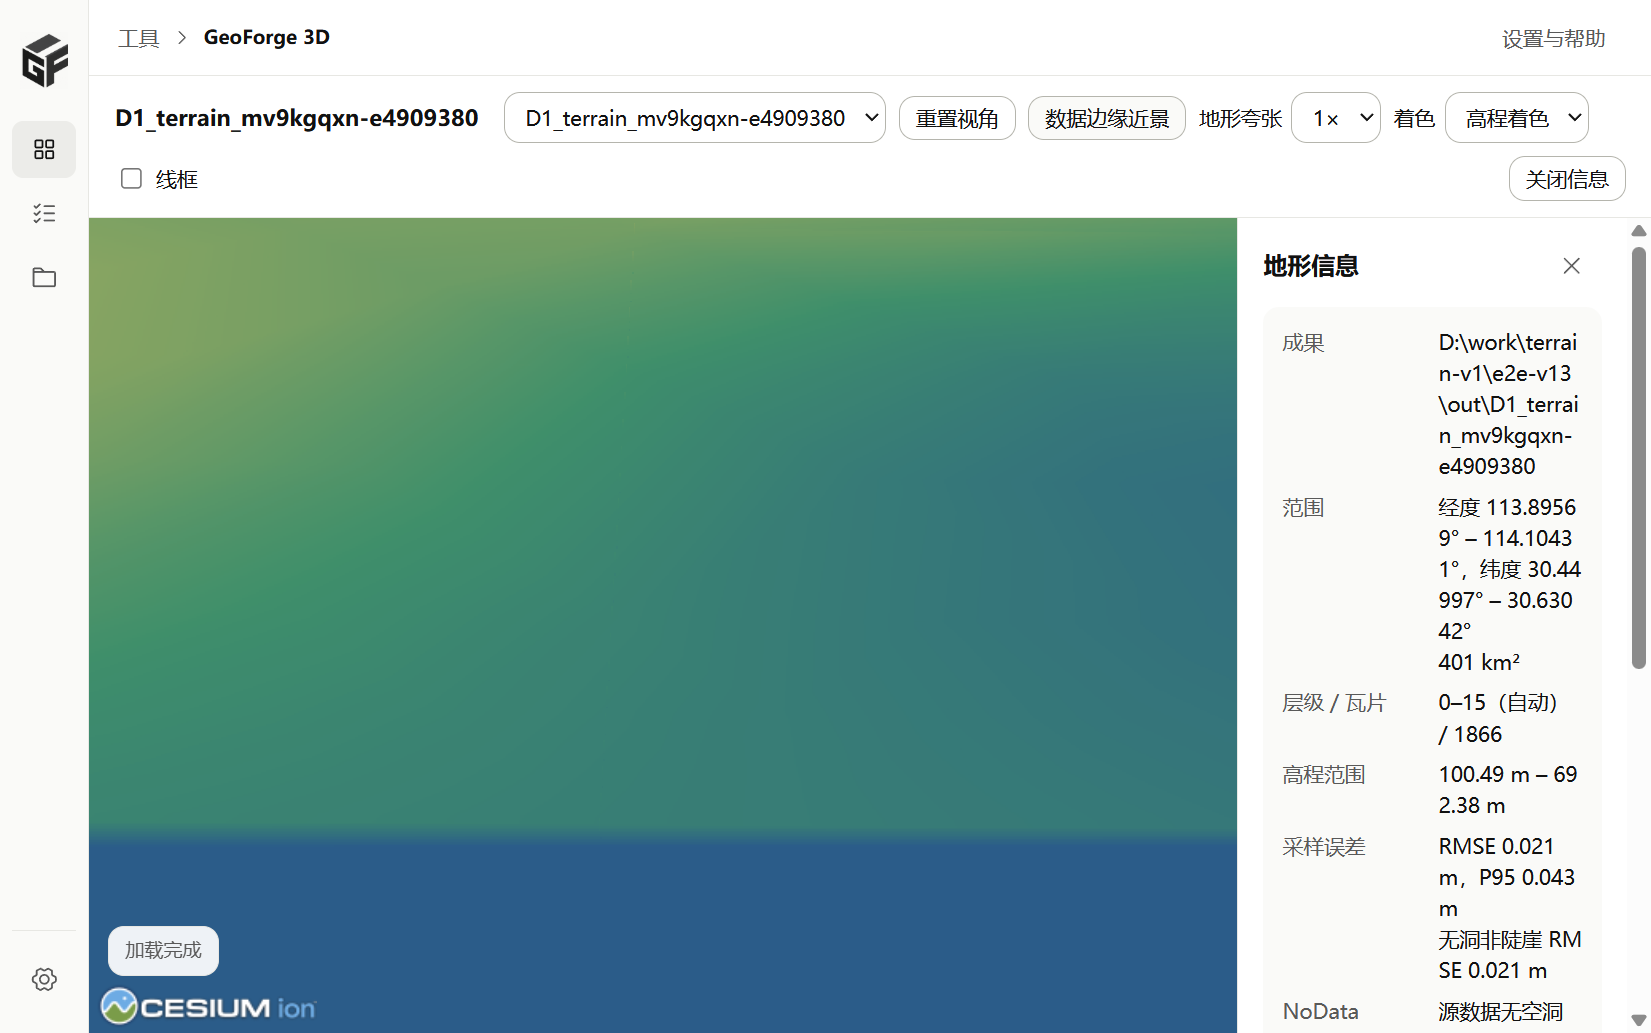
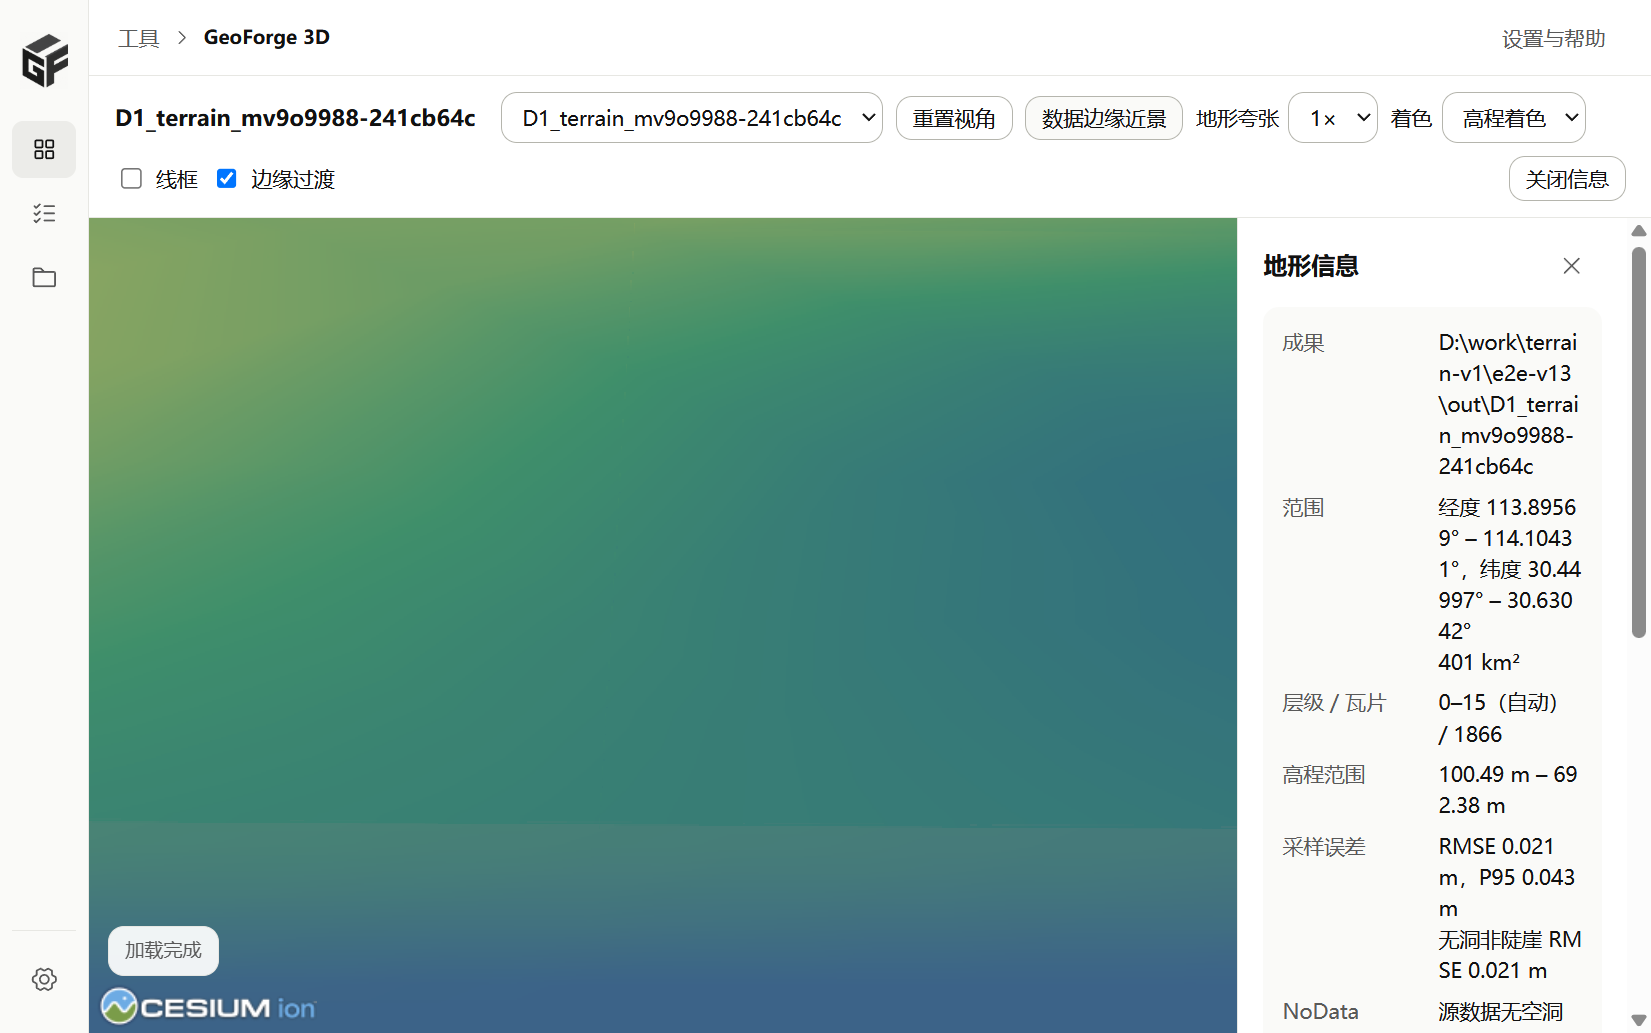
地形 V1.3：预览中的边缘过渡坡面、成果列表复制路径与重启保留测试

diff --git a/apps/desktop/public/terrain-preview.html b/apps/desktop/public/terrain-preview.html
@@ -28,13 +28,15 @@
   <div id="pickLine"></div>
   <div id="cesiumContainer"></div>
   <script type="module">
-    import { parseBounds, overviewRectangle, edgeView, realHeight, looksGzip, firstTileUrl } from './terrain-view.mjs';
+    import { parseBounds, overviewRectangle, edgeView, realHeight, looksGzip, firstTileUrl, rampColor, transitionWidthM, perimeterPoints, transitionMesh } from './terrain-view.mjs';
 
     const params = new URL(window.location.href).searchParams;
     const terrainUrl = params.get('terrain');
     const bounds = parseBounds(params.get('bounds'));
     const heights = { min: Number(params.get('hmin')), max: Number(params.get('hmax')) };
     let exaggeration = Number(params.get('ex')) || 1;
+    let shading = params.get('shading') || 'ramp';
+    let showTransition = params.get('transition') !== '0';
 
     function postParent(message) {
       if (window.parent && window.parent !== window) window.parent.postMessage(message, window.location.origin);
@@ -91,12 +93,64 @@
         globe.material = undefined;
       }
     }
+    // Display-only band outside the data: edge heights tapered to 0 m. It is
+    // a separate primitive; no terrain tile is changed.
+    let transition = null;
+    let transitionPrimitive = null;
+    async function prepareTransition(provider) {
+      const points = perimeterPoints(bounds, 96);
+      // Sample just inside the edge so the band starts on the data.
+      const inset = 1e-6;
+      const cartos = points.map((p) => Cesium.Cartographic.fromDegrees(
+        Math.min(Math.max(p.lon, bounds[0] + inset), bounds[2] - inset),
+        Math.min(Math.max(p.lat, bounds[1] + inset), bounds[3] - inset)));
+      const sampled = await Cesium.sampleTerrainMostDetailed(provider, cartos);
+      const widthM = transitionWidthM(bounds);
+      transition = { widthM, mesh: transitionMesh(points, sampled.map((c) => c.height), widthM) };
+    }
+    function drawTransition() {
+      if (transitionPrimitive) { scene.primitives.remove(transitionPrimitive); transitionPrimitive = null; }
+      if (!transition || !showTransition) return;
+      const { vertices, indices } = transition.mesh;
+      const min = Number.isFinite(heights.min) ? heights.min : 0;
+      const max = Number.isFinite(heights.max) && heights.max > min ? heights.max : min + 1;
+      const positions = new Float64Array(vertices.length * 3);
+      const colors = new Uint8Array(vertices.length * 4);
+      const base = [58, 70, 88];
+      vertices.forEach((v, i) => {
+        const c = Cesium.Cartesian3.fromDegrees(v.lon, v.lat, v.height * exaggeration);
+        positions[i * 3] = c.x; positions[i * 3 + 1] = c.y; positions[i * 3 + 2] = c.z;
+        // Ramp colour, slightly greyed so the synthetic band stays recognisable.
+        const rgb = shading === 'ramp' ? rampColor(v.height, min, max).map((x, k) => Math.round(x * 0.8 + 128 * 0.2)) : base;
+        colors.set([rgb[0], rgb[1], rgb[2], 255], i * 4);
+      });
+      const geometry = new Cesium.Geometry({
+        attributes: {
+          position: new Cesium.GeometryAttribute({ componentDatatype: Cesium.ComponentDatatype.DOUBLE, componentsPerAttribute: 3, values: positions }),
+          color: new Cesium.GeometryAttribute({ componentDatatype: Cesium.ComponentDatatype.UNSIGNED_BYTE, componentsPerAttribute: 4, normalize: true, values: colors }),
+        },
+        indices: new Uint32Array(indices),
+        primitiveType: Cesium.PrimitiveType.TRIANGLES,
+        boundingSphere: Cesium.BoundingSphere.fromVertices(Array.from(positions)),
+      });
+      transitionPrimitive = scene.primitives.add(new Cesium.Primitive({
+        geometryInstances: new Cesium.GeometryInstance({ geometry }),
+        appearance: new Cesium.PerInstanceColorAppearance({ flat: true, translucent: false }),
+        asynchronous: false, compressVertices: false,
+      }));
+      window.__geoforgeTerrain.transition = { widthM: transition.widthM, vertices: vertices.length, shown: true };
+    }
+
     function applyStyle(style) {
       if (Number.isFinite(style.exaggeration) && style.exaggeration > 0) {
         exaggeration = style.exaggeration;
         scene.verticalExaggeration = exaggeration;
       }
-      applyShading(style.shading || 'ramp');
+      shading = style.shading || 'ramp';
+      if (typeof style.transition === 'boolean') showTransition = style.transition;
+      applyShading(shading);
+      drawTransition();
+      if (!showTransition && window.__geoforgeTerrain.transition) window.__geoforgeTerrain.transition.shown = false;
       viewer.cesiumInspector.viewModel.wireframe = Boolean(style.wireframe);
     }
     function flyOverview(duration = 0) {
@@ -135,7 +189,7 @@
       const lon = Cesium.Math.toDegrees(carto.longitude), lat = Cesium.Math.toDegrees(carto.latitude);
       const inside = bounds && lon >= bounds[0] && lon <= bounds[2] && lat >= bounds[1] && lat <= bounds[3];
       line.textContent = `经度 ${lon.toFixed(6)}° 纬度 ${lat.toFixed(6)}° 高程 ${height == null ? '—' : height.toFixed(2) + ' m'}` +
-        (inside ? '' : '（数据范围外，0 m 只用于显示）');
+        (inside ? '' : '（数据范围外：0 m 平面和边缘过渡坡面只用于显示，不是成果数据）');
       postParent({ type: 'geoforge-terrain-pick', lon, lat, height, inside: Boolean(inside) });
     }, Cesium.ScreenSpaceEventType.MOUSE_MOVE);
 
@@ -172,9 +226,14 @@
       });
       viewer.terrainProvider = provider;
       window.__geoforgeTerrain.provider = provider;
-      applyStyle({ exaggeration, shading: params.get('shading') || 'ramp', wireframe: params.get('wireframe') === '1' });
+      try {
+        await prepareTransition(provider);
+      } catch (error) {
+        console.warn('edge transition skipped', error);
+      }
+      applyStyle({ exaggeration, shading, wireframe: params.get('wireframe') === '1' });
       flyOverview(0);
-      postParent({ type: 'geoforge-terrain-ready', maxLevel: (layer.available || []).length - 1 });
+      postParent({ type: 'geoforge-terrain-ready', maxLevel: (layer.available || []).length - 1, transitionWidthM: transition ? transition.widthM : null });
     }
     start().catch((error) => showError(`地形加载失败：${error && error.message ? error.message : error}`));
   </script>

diff --git a/apps/desktop/src/pages/TerrainPreview.tsx b/apps/desktop/src/pages/TerrainPreview.tsx
@@ -40,6 +40,8 @@ export function TerrainPreview() {
   const [exaggeration, setExaggeration] = useState(1);
   const [shading, setShading] = useState<Shading>('ramp');
   const [wireframe, setWireframe] = useState(false);
+  const [transition, setTransition] = useState(true);
+  const [transitionWidthM, setTransitionWidthM] = useState<number | null>(null);
   const [infoOpen, setInfoOpen] = useState(true);
   const [pick, setPick] = useState<Pick | null>(null);
   const [frameKey, setFrameKey] = useState(0);
@@ -93,7 +95,10 @@ export function TerrainPreview() {
       if (ev.source !== iframeRef.current?.contentWindow || ev.origin !== window.location.origin) return;
       const data = ev.data || {};
       if (data.type === 'geoforge-terrain-loading') setLoadState('loading');
-      if (data.type === 'geoforge-terrain-ready') setLoadState('ready');
+      if (data.type === 'geoforge-terrain-ready') {
+        setLoadState('ready');
+        setTransitionWidthM(typeof data.transitionWidthM === 'number' ? data.transitionWidthM : null);
+      }
       if (data.type === 'geoforge-terrain-idle') setTilesIdle(true);
       if (data.type === 'geoforge-terrain-error') {
         setLoadState('error');
@@ -110,8 +115,8 @@ export function TerrainPreview() {
   }
 
   useEffect(() => {
-    if (loadState === 'ready') post({ type: 'geoforge-terrain-style', exaggeration, shading, wireframe });
-  }, [loadState, exaggeration, shading, wireframe]);
+    if (loadState === 'ready') post({ type: 'geoforge-terrain-style', exaggeration, shading, wireframe, transition });
+  }, [loadState, exaggeration, shading, wireframe, transition]);
 
   function view(which: 'overview' | 'edge') {
     setTilesIdle(false);
@@ -182,6 +187,10 @@ export function TerrainPreview() {
         <label className="preview-toolbar__field">
           <input type="checkbox" checked={wireframe} disabled={!ready} onChange={(e) => setWireframe(e.target.checked)} />
           线框
+        </label>
+        <label className="preview-toolbar__field" title="数据范围外的合成坡面，只用于显示，不改变成果">
+          <input type="checkbox" checked={transition} disabled={!ready} onChange={(e) => setTransition(e.target.checked)} />
+          边缘过渡
         </label>
         <div className="preview-toolbar__spacer" />
         <button className="btn btn-sm" type="button" disabled={!selected} onClick={() => setInfoOpen((v) => !v)}>
@@ -280,7 +289,7 @@ export function TerrainPreview() {
               </dl>
             </div>
             <p className="muted" style={{ fontSize: 12 }}>
-              离线预览：没有在线底图，颜色只表示高程。地形夸张只改变显示。数据范围外的 0 m 平面只用于显示。
+              离线预览：没有在线底图，颜色只表示高程。地形夸张只改变显示。数据范围外的 0 m 平面只用于显示。{transition && transitionWidthM ? `边缘过渡：数据范围外约 ${Math.round(transitionWidthM)} m 宽的合成坡面（颜色略灰），由边缘高程渐变到 0 m，只在预览中绘制，不是成果数据，瓦片不变。` : ''}
             </p>
             {isTauri() ? (
               <button className="btn btn-sm" type="button" onClick={() => void api.openArtifactDirectory(selected.id).catch((e) => setError(friendlyError(e)))}>

diff --git a/apps/desktop/src/pages/Results.tsx b/apps/desktop/src/pages/Results.tsx
@@ -58,7 +58,7 @@ export function Results() {
 
   async function copyPath(path: string) {
     try {
-      await navigator.clipboard?.writeText(path);
+      await navigator.clipboard?.writeText(displayPath(path));
       setCopied(path);
       window.setTimeout(() => setCopied(null), 2000);
     } catch {
@@ -188,6 +188,11 @@ export function Results() {
                       onClick={() => void openDir(a.id)}
                     >
                       打开目录
+                    </button>
+                  ) : null}
+                  {terrain ? (
+                    <button className="btn btn-sm" type="button" onClick={() => void copyPath(a.path)}>
+                      复制路径
                     </button>
                   ) : null}
                   <div className="menu" ref={menuId === a.id ? menuRef : undefined}>

diff --git a/apps/desktop/src-tauri/src/artifact_store.rs b/apps/desktop/src-tauri/src/artifact_store.rs
@@ -447,6 +447,35 @@ mod tests {
   }
 
   #[test]
+  fn terrain_artifact_survives_an_app_restart() {
+    let root = temp_root("restart");
+    std::fs::write(root.join("layer.json"), "{}").unwrap();
+    std::fs::write(root.join(TERRAIN_REPORT), REPORT).unwrap();
+    let db = std::env::temp_dir().join(format!("geoforge-art-restart-{}.sqlite", Uuid::new_v4()));
+    let id = {
+      let conn = Connection::open(&db).unwrap();
+      init_schema(&conn).unwrap();
+      let store = ArtifactStore::new(Arc::new(Mutex::new(conn)));
+      store.register(root.to_str().unwrap(), Some("task-1"), "terrain", "").unwrap().id
+    };
+    // Same start-up as the app: open the database again and rebuild the index.
+    let conn = Connection::open(&db).unwrap();
+    init_schema(&conn).unwrap();
+    let store = ArtifactStore::new(Arc::new(Mutex::new(conn)));
+    store.reload_index().unwrap();
+    let listed = store.list().unwrap();
+    let value = listed.iter().find(|v| v["id"] == id.as_str()).expect("terrain artifact listed after restart");
+    assert_eq!(value["kind"], "terrain");
+    assert_eq!(value["entryFile"], "layer.json");
+    assert_eq!(value["previewable"], true);
+    assert_eq!(value["terrain"]["tiles"], 517);
+    // The resource server resolves it again without a new task.
+    assert!(store.roots_handle().read().contains_key(&id));
+    let _ = std::fs::remove_dir_all(&root);
+    let _ = std::fs::remove_file(&db);
+  }
+
+  #[test]
   fn tileset_entry_and_old_rows_are_unchanged() {
     let root = temp_root("both");
     std::fs::write(root.join("tileset.json"), "{}").unwrap();

diff --git a/apps/desktop/scripts/terrain-desktop-e2e.py b/apps/desktop/scripts/terrain-desktop-e2e.py
@@ -116,11 +116,19 @@ def preview_terrain(window, result, step):
     edge = wait_tiles(window)
     window.screenshot("e2e-5-terrain-edge")
     step("edge close-up loaded")
+    # Same camera without the display-only edge transition (before/after pair).
+    window.click("//label[contains(., '边缘过渡')]/input")
+    time.sleep(1.5)
+    window.screenshot("e2e-5b-terrain-edge-no-transition")
+    window.click("//label[contains(., '边缘过渡')]/input")
+    time.sleep(1)
+    result["transition"] = window.run("return window.document.querySelector('iframe[title=\"Cesium 地形预览\"]').contentWindow.__geoforgeTerrain.transition")
     external = sorted(set(overview["external"] + edge["external"]))
     assert not external, f"preview fetched non-local resources: {external}"
     result["preview"] = {"requests": edge["requests"], "externalRequests": external}
     window.click("//a[contains(., '成果')]")
     window.wait_text("Cesium 地形", timeout=30)
+    window.wait_text("复制路径", timeout=10)
     window.screenshot("e2e-6-results")
     result["resultsText"] = window.text()[-1500:]
 

diff --git a/docs/terrain/v1/09-v13-preview.md b/docs/terrain/v1/09-v13-preview.md
@@ -56,8 +56,59 @@ V1.3 让地形切片任务的输出成为可以预览的成果：
 
 ![成果列表](img/v13-results.png)
 
+## 边缘过渡（V1.3 补充）
+
+用户决定：保留数据边缘的台阶，不隐藏范围外的球面，只把过渡做得平缓一点。
+
+### 做法：只在预览里画，不改瓦片
+
+预览页在数据矩形外画一圈单独的坡面：
+- 内沿取地形在边缘处的实际高程（`sampleTerrainMostDetailed`，每边 96 个点）。
+- 向外按余弦曲线渐变到 0 m。宽度取数据短边的 5%，限制在 200 m 到 2 km（D1 约 1000 m）。
+- 颜色沿用高程色带，但略偏灰，能看出是合成的。
+
+工具栏的“边缘过渡”可以随时关掉，默认打开。信息栏和鼠标读数都会注明：范围外的 0 m 平面和这圈坡面只用于显示，不是成果数据。地形夸张时，坡面跟着一起缩放。
+
+这样做的结果：
+- 成果瓦片、`layer.json`、`geoforge-terrain.json` 都和改动前逐字节相同，处理器和地形运行时一行没改。
+- 数据范围内的高程自然也没有任何变化。
+- 粗层级边缘下塌的数量和改动前完全一样，没有变差。
+
+### 为什么不在切片时加边带
+
+我先试了处理器方案：在 CTB 输入外围加一圈余弦渐变边带（新的 `gf-dem-tool apron` 命令），用 7 个基准样例测了开和关两种情况。代码留在 `exp/terrain-edge-apron` 分支，没有开 PR，测量数据在 `docs/terrain/v1/measurements/v13-apron/`。
+
+好处：
+- 粗层级边缘下塌几乎消失。下塌顶点合计：D0 451→3，D1 213→1，D1 direct 2924→1，D3 76→0，M 128→4。
+- 加边后，数据范围内的 DEM 像元逐个比对，不一致数为 0。
+
+问题：这种方案满足不了“数据范围内高程零变化”这条硬规则。
+- CTB 在生成一张瓦片时，会参考相邻瓦片的网格来防裂缝（`MeshTiler::prepareSettingsOfTile`）。边带改变了跨边缘那一圈瓦片，紧挨着它们的内侧一圈瓦片就会选到不同的 DEM 采样点。
+  - D1 第 15 层：1184 张内部瓦片里有 113 张变了，表面最大差 1.4 m。
+  - 共同顶点的高程完全相同，变的只是选点。
+- 相邻瓦片接缝变大：M 从 0.027 m 增加到 0.46 m，D4 从 0.027 m 增加到 1.46 m，位置都在数据西边缘内侧几百米。
+- 每个样例的瓦片多 4%–21%。
+
+所以这次采用预览方案。处理器边带对 V1.4 的下塌问题有参考价值，但要先解决 CTB 的邻接耦合（例如给 CTB 打补丁），再决定要不要用。
+
+### 截图（同一相机）
+
+关闭边缘过渡（改动前）：
+
+![关闭边缘过渡](img/v13-terrain-edge-before.png)
+
+打开边缘过渡：
+
+![打开边缘过渡](img/v13-terrain-edge.png)
+
+## 复制路径与重启保留
+
+- 成果列表里的地形成果行新增“复制路径”按钮（原来只在“更多”菜单里）。复制时去掉 Windows 的 `\\?\` 前缀。
+- 新增测试 `terrain_artifact_survives_an_app_restart`：用磁盘上的 SQLite 登记地形成果，再按应用启动的流程重新打开数据库并重建索引。之后检查：成果仍在列表里，类型是 terrain，入口是 `layer.json`，可以预览，报告摘要还在，资源服务能直接找到它。
+
 ## 风险
 
-- 数据范围外是 0 m 的椭球面，D1 这类高程 100–700 m 的数据在边缘会出现“台阶”，这是显示效果，不是成果问题。是否要在范围外隐藏球面，留给产品决定。
+- 数据范围外仍是 0 m 的椭球面（用户决定保留台阶），边缘过渡只是预览里的视觉过渡。在粗层级远看时，CTB 瓦片边缘仍会向 0 m 下塌，过渡坡面的内沿可能和下塌的边缘之间有一条缝。
+- 边缘过渡在加载时要多取一批最深层的边缘瓦片，大范围数据第一次加载会慢一点。
 - 预览不做垂直基准转换，报告里没有转换时高程按源数据显示。
 - 真实窗口截图来自 WebView2 的 WebDriver 截图，没有拔网线测试；离线依据是脚本对请求地址的检查。
